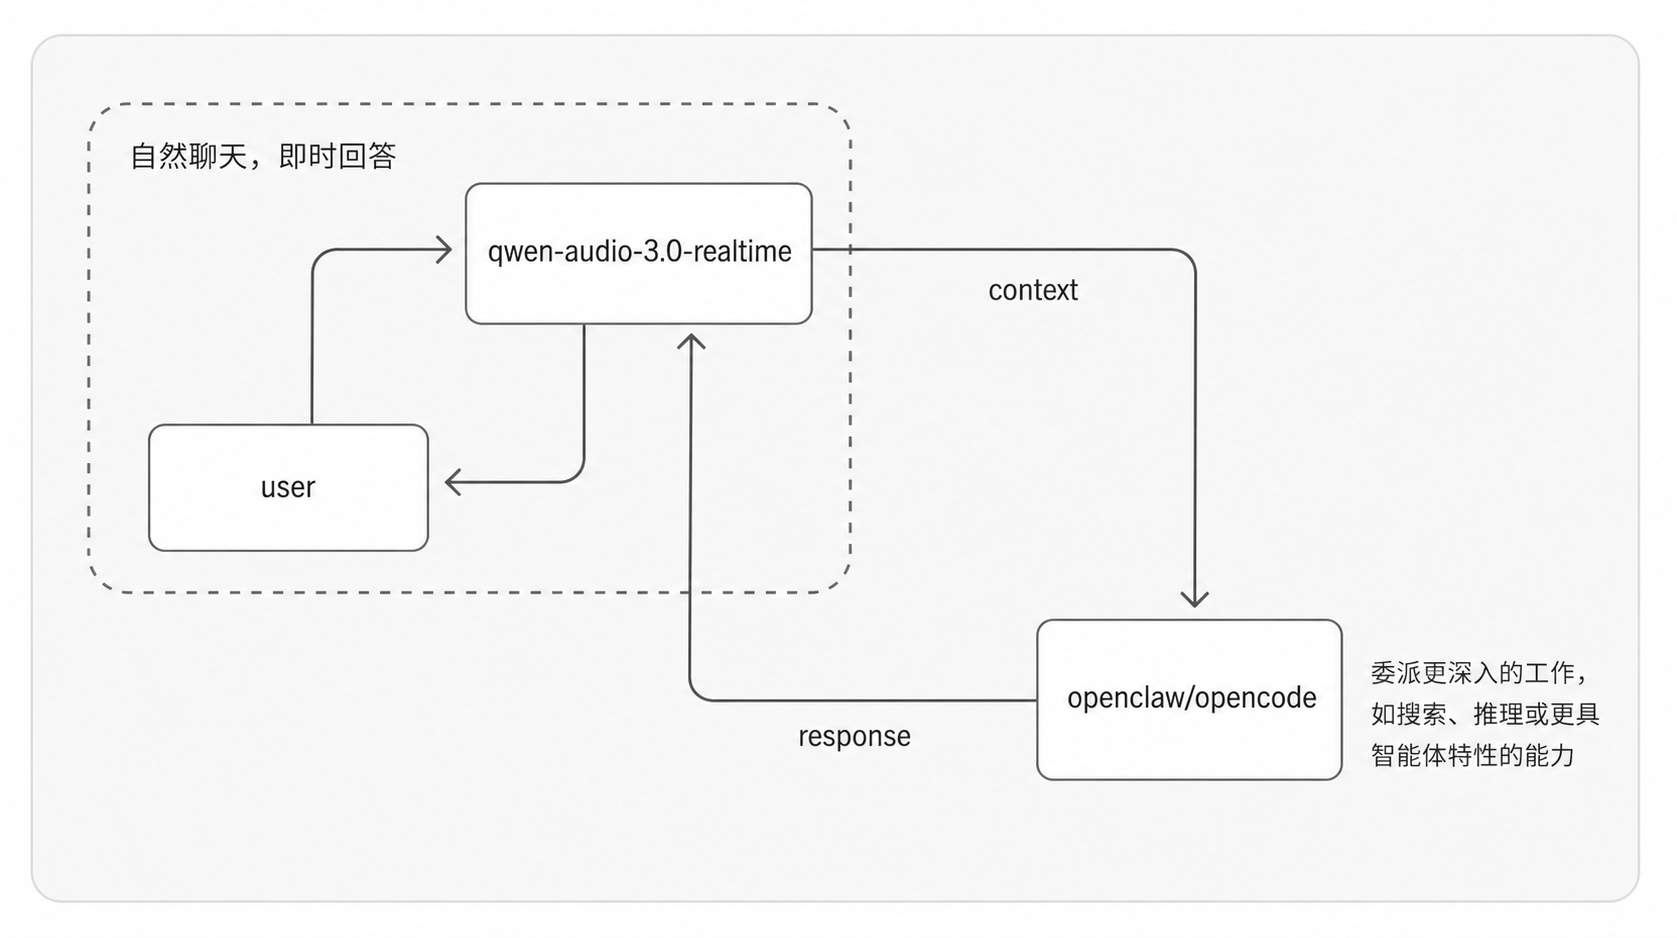
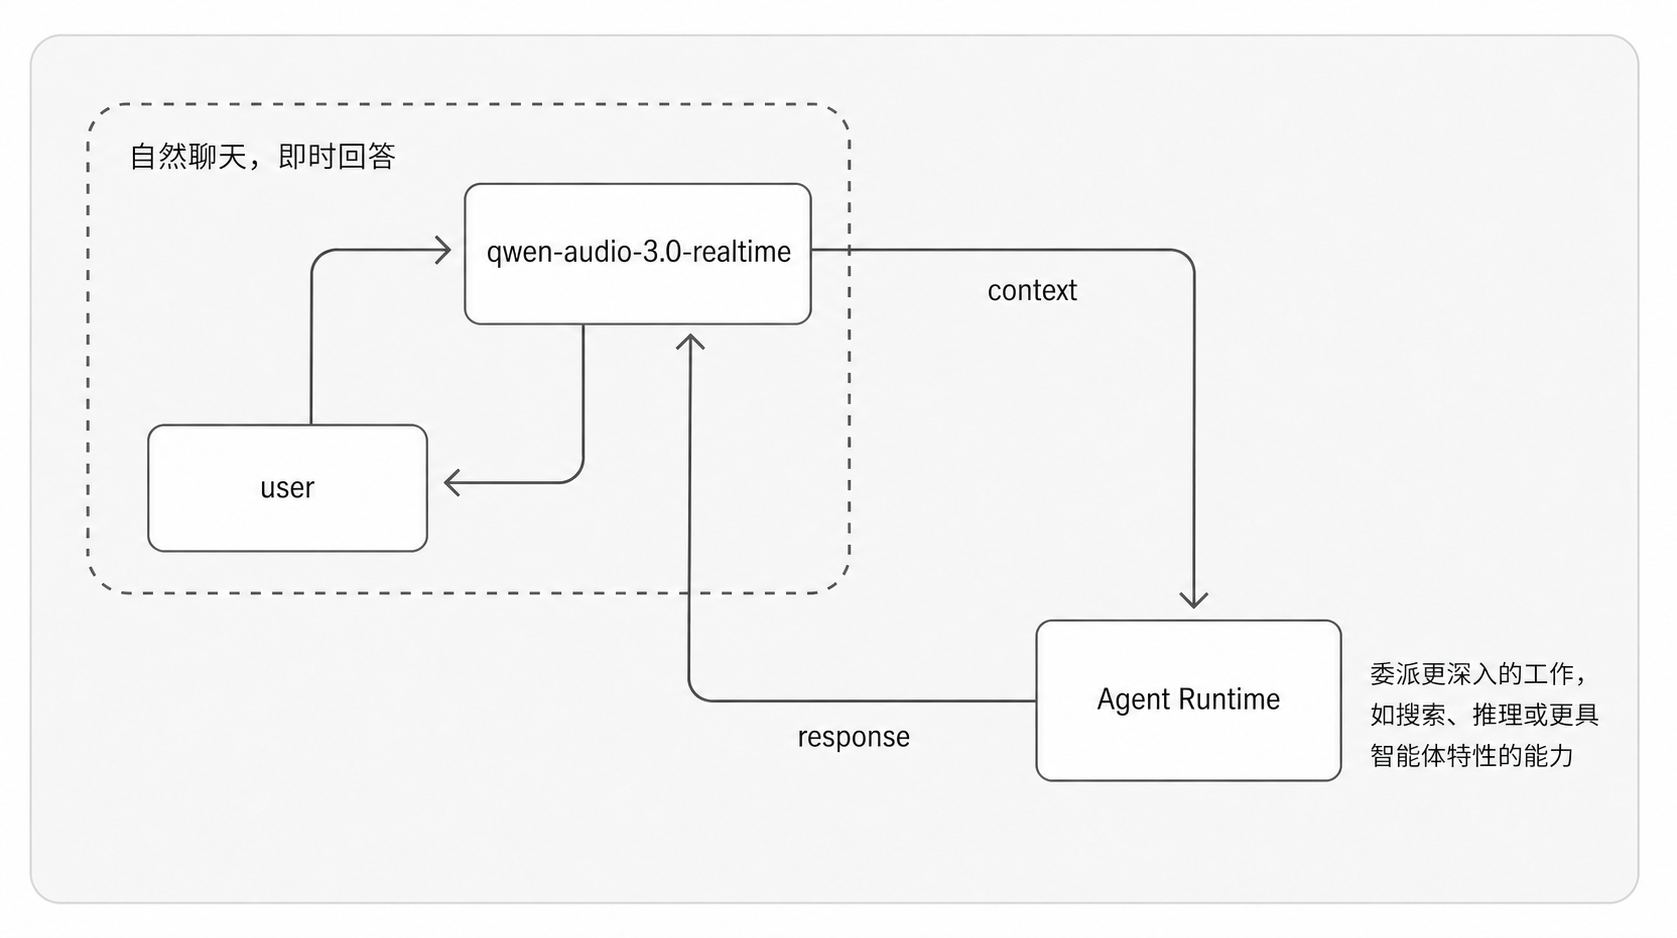
docs: streamline agent setup examples

diff --git a/README_EN.md b/README_EN.md
@@ -48,9 +48,9 @@ assistant.
 
 | Backend Agent | Status | Main capabilities | Rating |
 | --- | --- | --- | --- |
-| OpenCode CLI | Supported | Tools and coding tasks, project Sessions, progress queries, and cancellation | ★★★★★ |
+| OpenCode | Supported | Tools and coding tasks, project Sessions, progress queries, and cancellation | ★★★★★ |
 | OpenClaw | Supported | Agents, tools, task execution, and permission control | ★★★★☆ |
-| Qoder CLI | Supported | Native CLI Sessions, starting or continuing projects, task delegation, and cancellation | ★★★★★ |
+| Qoder | Supported | Native CLI Sessions, starting or continuing projects, task delegation, and cancellation | ★★★★★ |
 | Codex | In development | Coding tasks, tool calls, and project collaboration | ★★★★☆ |
 | Hermes | In development | Tool calls, task execution, and project collaboration | ★★★★☆ |
 
@@ -96,23 +96,30 @@ npm install -g qwen-audio-agent@latest
 qwenaudio config
 ```
 
-2. Open the displayed `config.env` file and add your DashScope API Key:
+2. Open the displayed `config.env` file, add your DashScope API Key, and select
+   OpenCode:
 
 ```dotenv
 DASHSCOPE_API_KEY=your-key
+AGENT_PROTOCOL=opencode
 ```
 
-3. Start the service:
+3. Start the Gateway in one terminal:
 
 ```bash
 qwenaudio
 ```
 
-4. Open another terminal and choose a voice interface:
+4. Open another terminal and start the TUI:
 
 ```bash
-qwenaudio tui     # Terminal interface
-qwenaudio webui   # Browser interface
+qwenaudio tui
+```
+
+You can use the browser interface instead:
+
+```bash
+qwenaudio webui
 ```
 
 ### TUI Notes
@@ -175,7 +182,7 @@ qwenaudio gateway uninstall
 
 ## Choose a Backend Agent
 
-Select the backend Agent with `AGENT_PROTOCOL`. OpenCode CLI is the default:
+Select the backend Agent with `AGENT_PROTOCOL`. OpenCode is the default:
 
 ```dotenv
 AGENT_PROTOCOL=opencode
@@ -187,18 +194,12 @@ Use OpenClaw:
 AGENT_PROTOCOL=openclaw
 ```
 
-Use Qoder CLI:
+Use Qoder:
 
 ```dotenv
 AGENT_PROTOCOL=qoder
 QODER_MODEL=auto
 ```
-
-The OpenCode integration uses the CLI and does not directly control OpenCode
-Desktop. The CLI and Desktop may show the same Sessions when they share user
-data. The Qoder integration uses native CLI Sessions and cannot currently
-resume Qoder Desktop Quests. OpenCode and OpenClaw can also connect to an
-already-running service.
 
 Backend permissions default to `native`, so the backend Agent asks when
 permission is required. Enable the following option only in trusted projects
